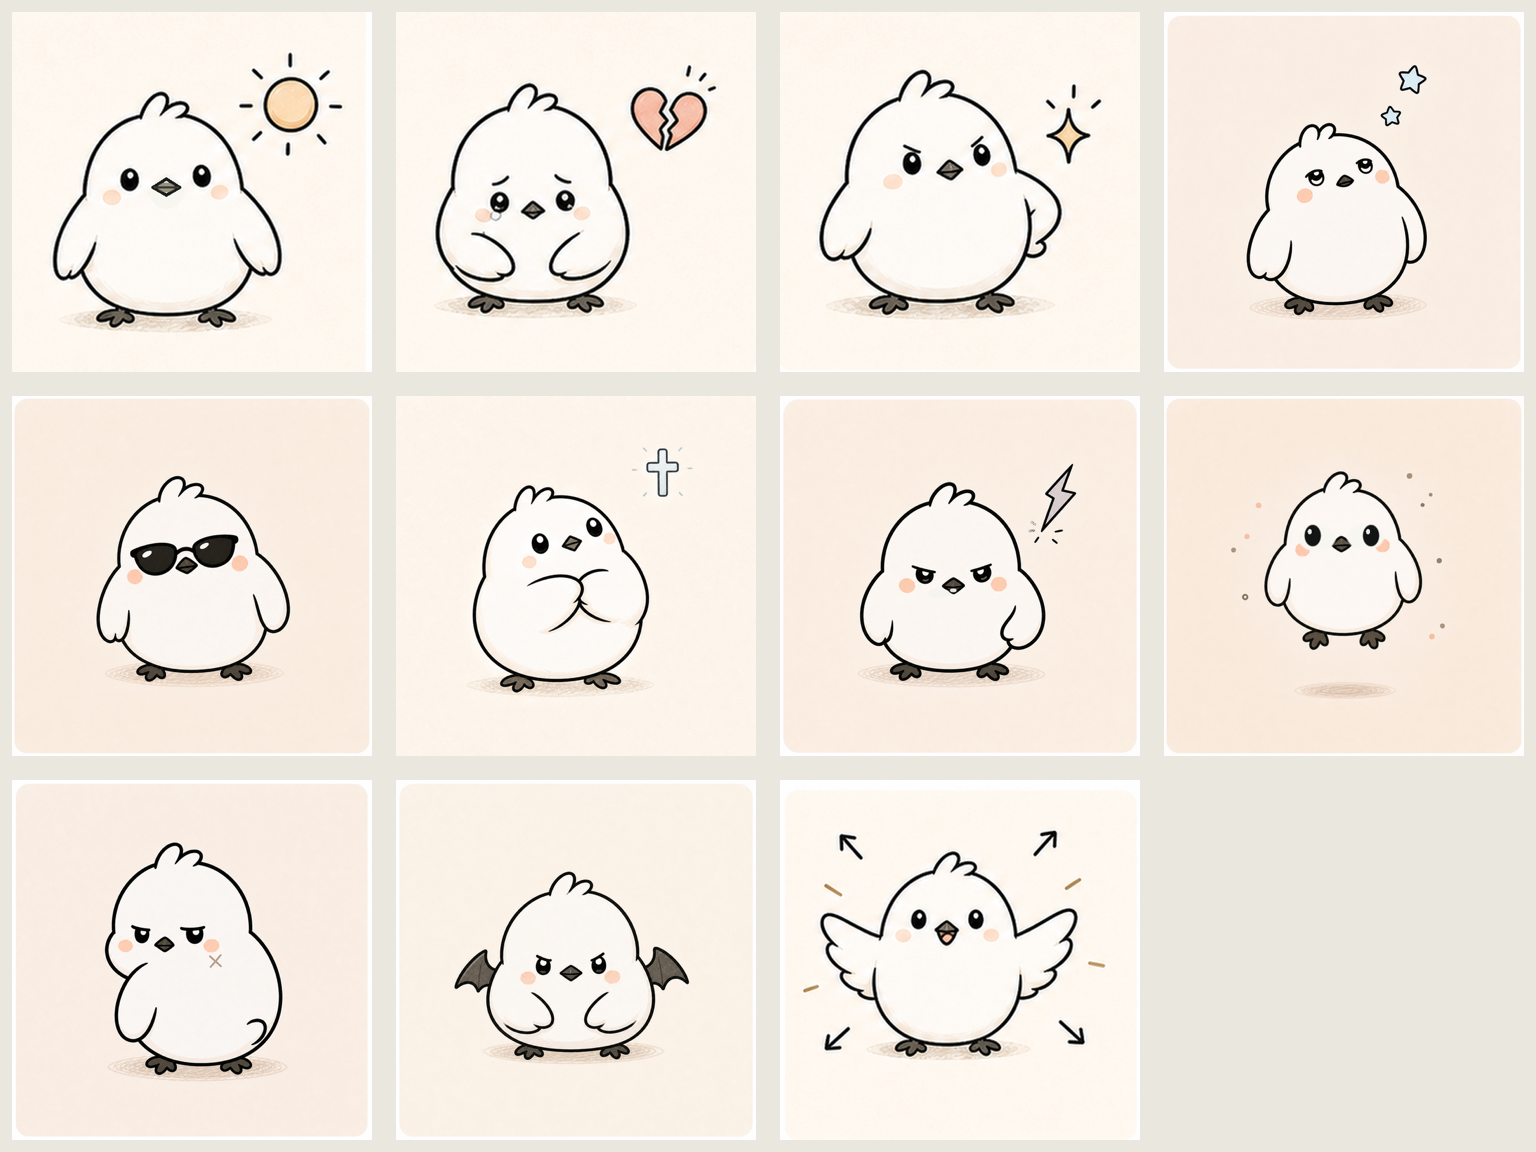
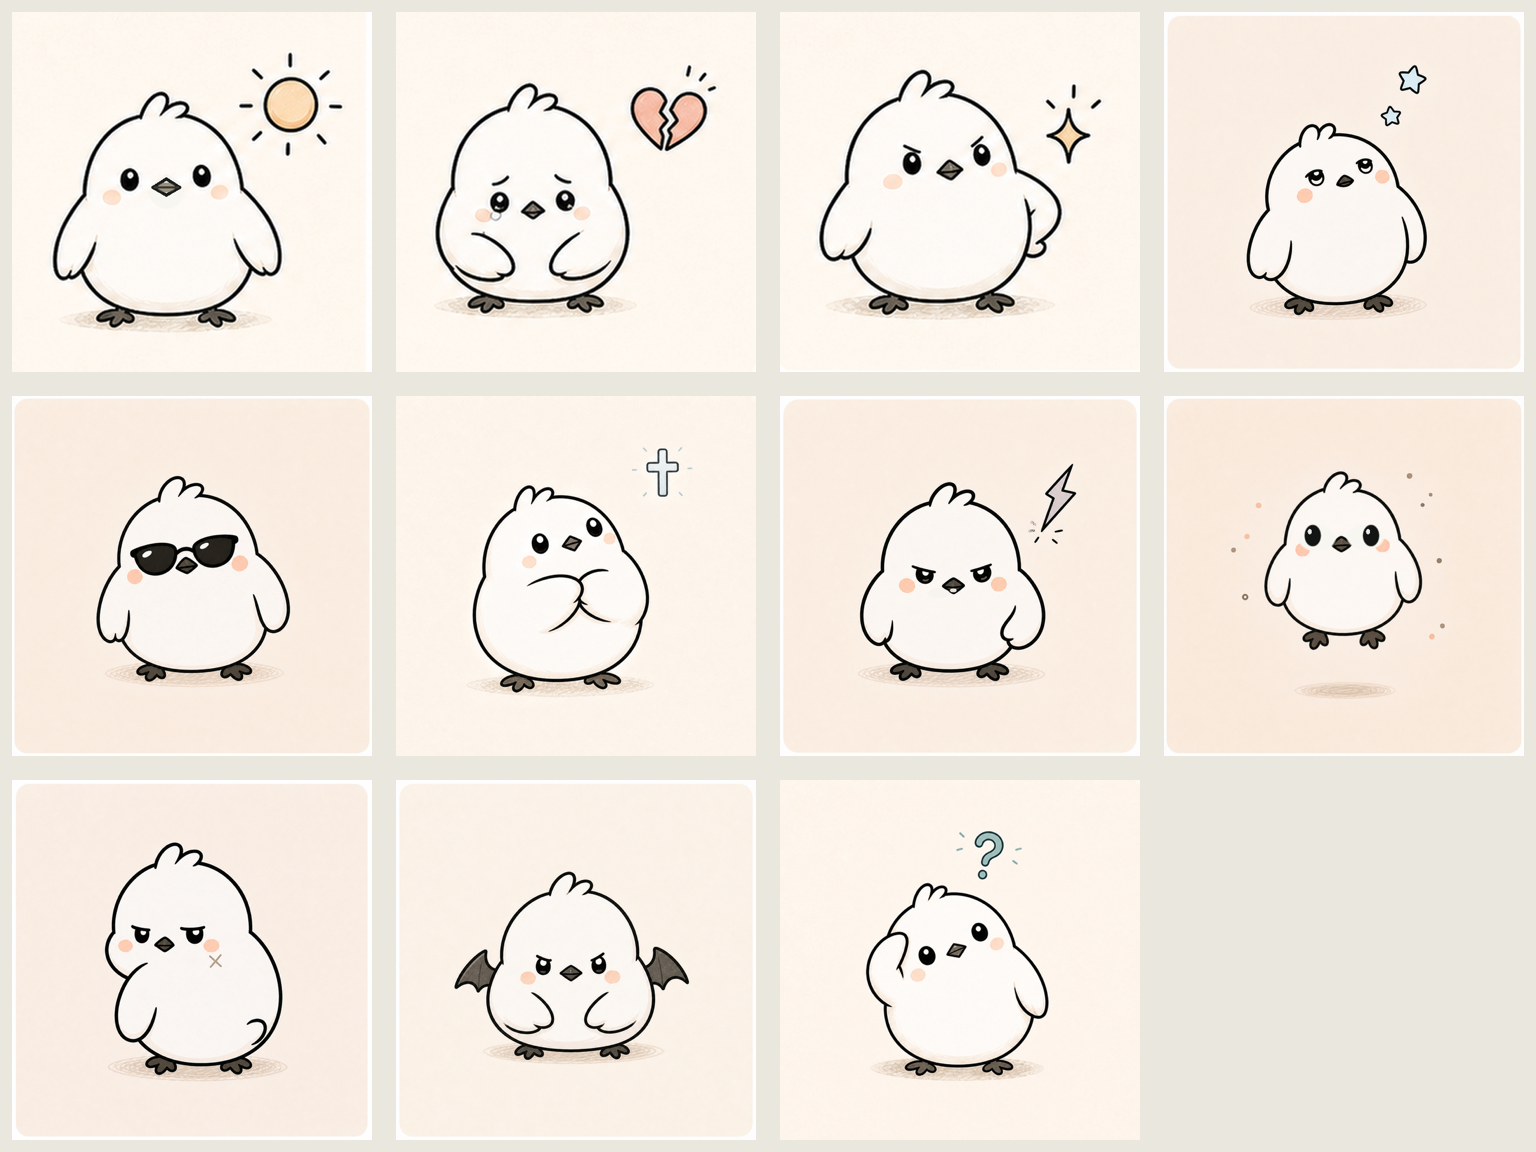
Update aug bird action to puzzled pose

Changed region(s): [[0.5312, 0.7188, 0.7188, 0.9375], [0.5312, 0.7188, 0.5625, 0.75]]

diff --git a/app/index.html b/app/index.html
@@ -4,7 +4,7 @@
     <meta charset="utf-8">
     <meta name="viewport" content="width=device-width, initial-scale=1">
     <title>Codori MVP</title>
-    <link rel="stylesheet" href="./styles.css?v=20260530-maj7-cross-v1">
+    <link rel="stylesheet" href="./styles.css?v=20260530-aug-question-v1">
   </head>
   <body>
     <main class="app-shell">
@@ -221,6 +221,6 @@
       </section>
     </main>
 
-    <script src="./main.js?v=20260530-maj7-cross-v1"></script>
+    <script src="./main.js?v=20260530-aug-question-v1"></script>
   </body>
 </html>

diff --git a/app/main.js b/app/main.js
@@ -126,7 +126,7 @@ const ONE_POINT_ACCENTS = {
   },
   aug: {
     slug: "aug",
-    title: "広がる小リング",
+    title: "不思議な？マーク",
     asset: "assets/app/accents/imagegen-v1/aug.png"
   }
 };
